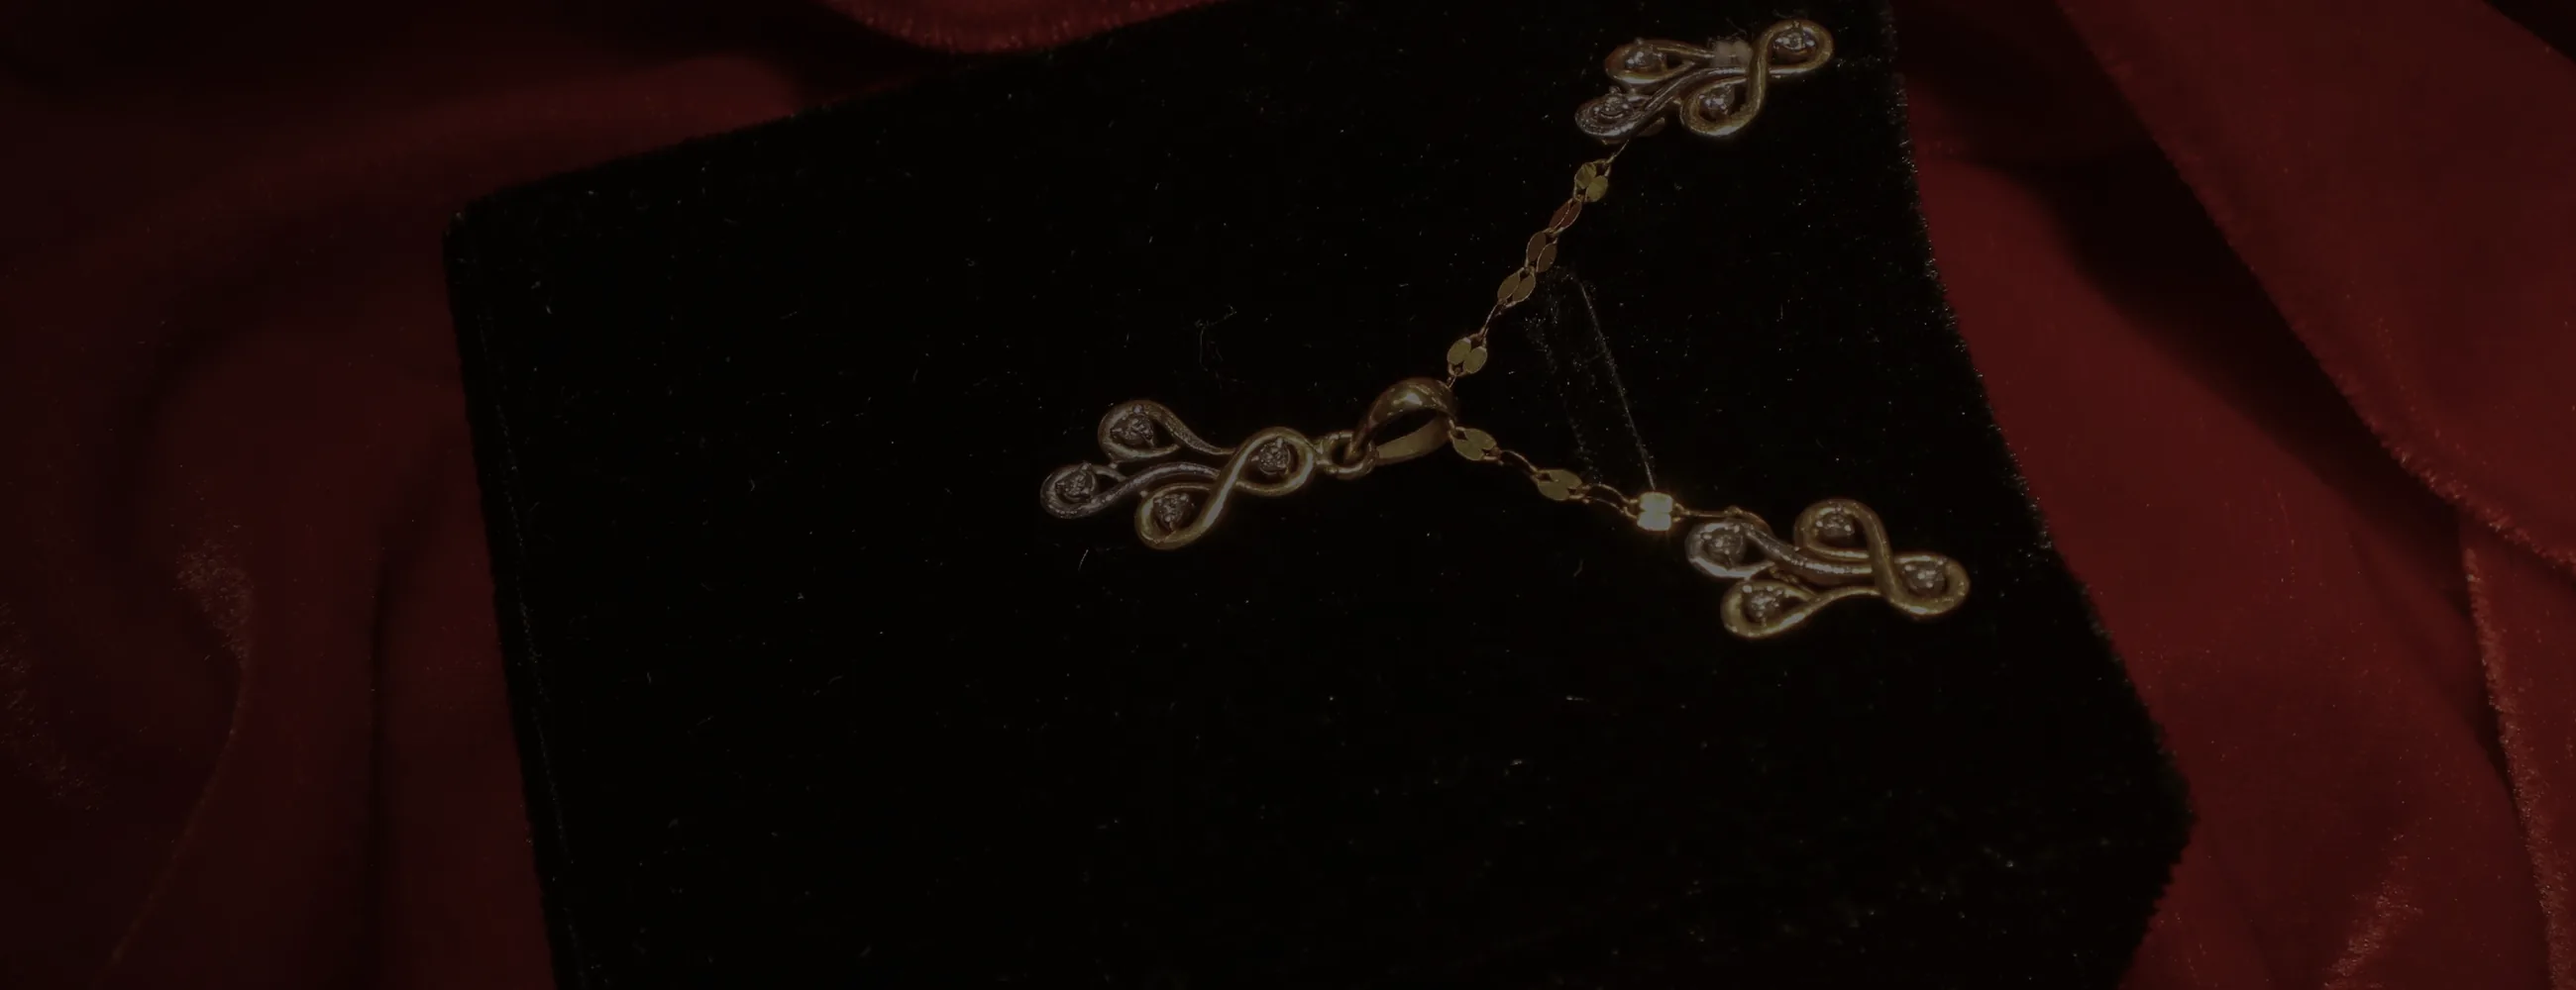
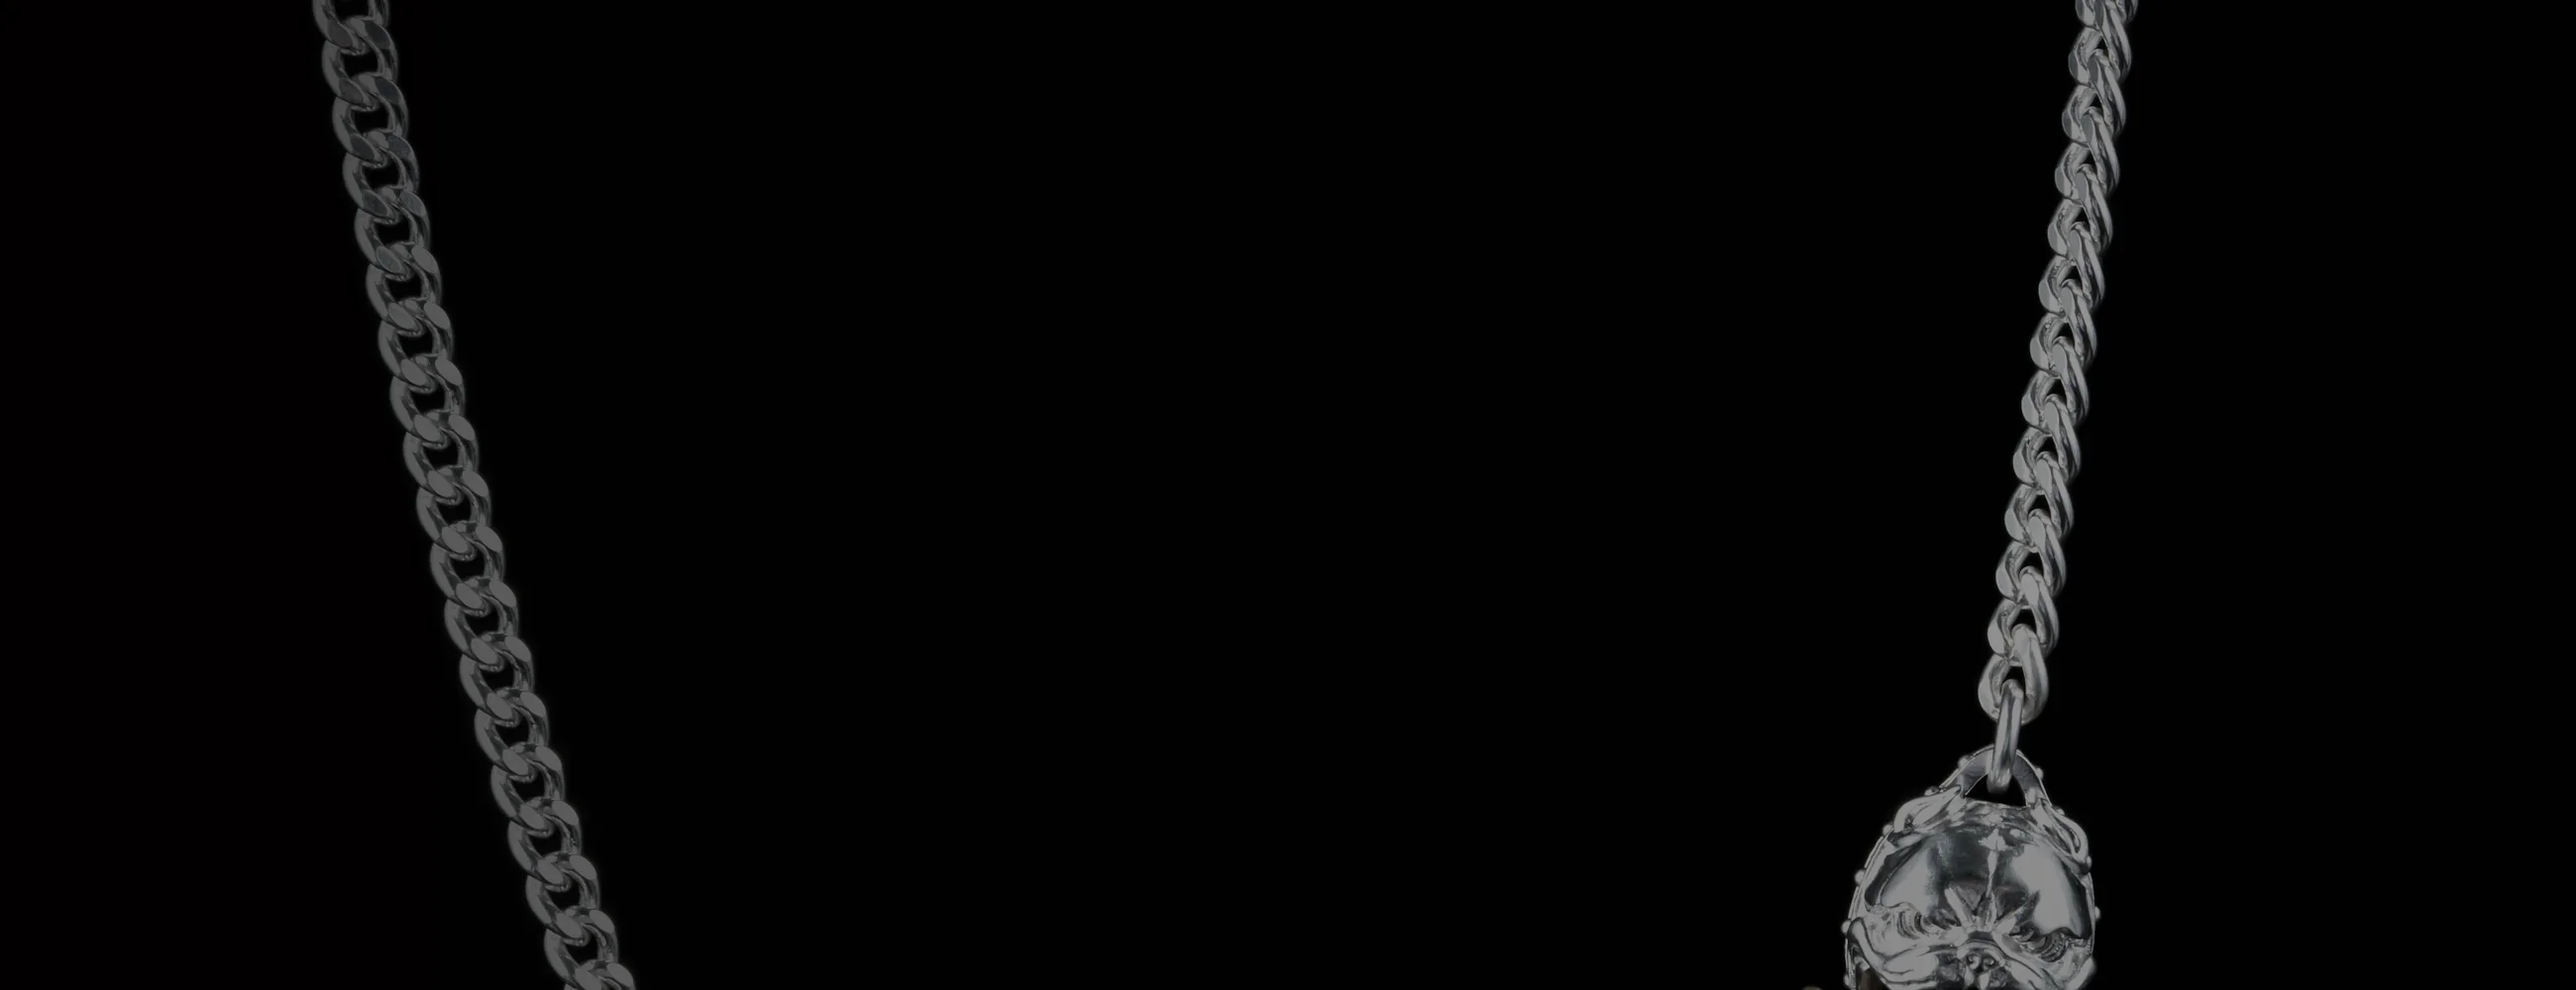
Refine classic homepage imagery

diff --git a/ueber.html b/ueber.html
@@ -19,7 +19,7 @@
     </header>
     <main>
       <section class="page-hero">
-        <img src="assets/banners/about-hero.webp" alt="Goldschmiedewerkbank mit feinem Ring">
+        <img src="assets/banners/about-hero.webp" alt="Eleganter Juwelier-Schauraum mit Vitrinen">
         <div><p>Ein Team</p><h1>Über uns</h1></div>
       </section>
       <section class="story-band">
